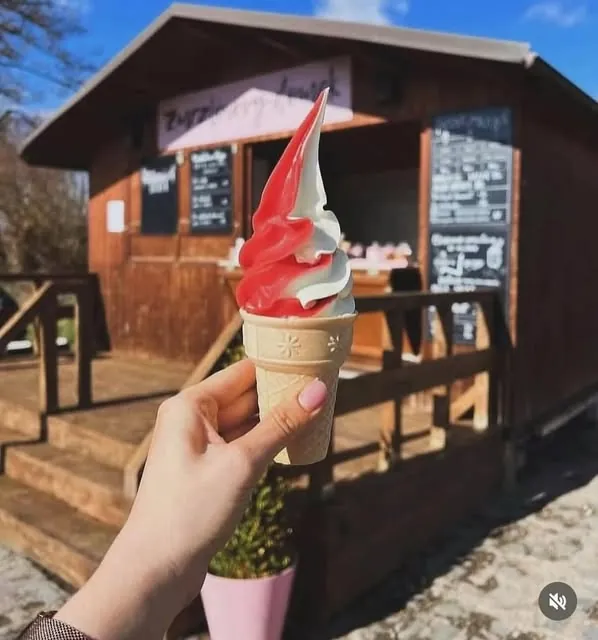
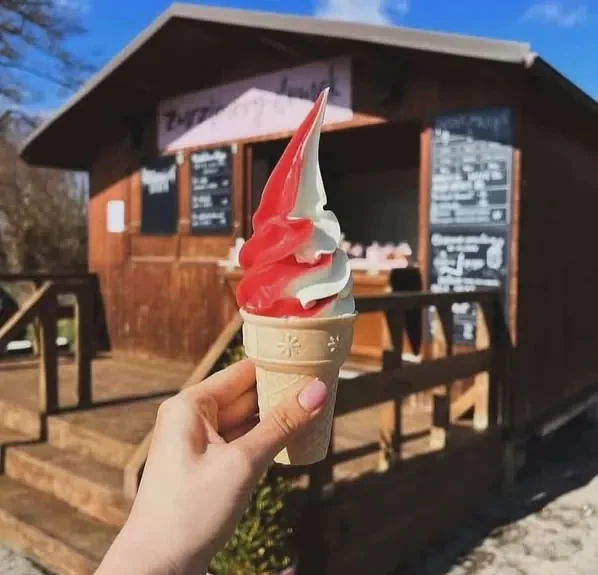
Předělaná sekce Co u nás ochutnáte
Čtyři stejné karty v mřížce 2x2 dávaly všemu stejnou váhu — točená
zmrzlina vypadala stejně důležitě jako kelímky. Teď má velkou kartu přes
celou šířku a zbytek je v řádku pod ní.

Fotka jde na celou šířku karty místo čtverečku 150 px vedle textu; v tom
z ní byla jen barevná skvrna. Cena a štítky sedí jako nálepka na fotce,
cena růžová psaná rukou, informace zelené — dřív to byly stejné pilulky,
takže se cena pletla s "nonstop".

Vyměněné fotky: frappé mělo v záběru hlavně růžové kytky a kelímek byl
nečitelný detail ruky. Lepší varianty přitom ležely nepoužité ve složce.
Z hlavní fotky oříznuta zapečená ikona ztlumení z Instagramu.

diff --git a/assets/style.css b/assets/style.css
@@ -218,15 +218,29 @@ h2 .hand { font-size: 1.16em; }
 .hlava__pozn { margin-top: 14px; opacity: .8; max-width: 34em; }
 .hlava--stred .hlava__pozn { margin-inline: auto; }
 
-.zbozi { display: grid; grid-template-columns: 1fr 1fr; gap: 20px; }
-.polozka { position: relative; display: grid; grid-template-columns: 150px 1fr; gap: 20px; align-items: center; background: #fff; border-radius: var(--r); padding: 16px; box-shadow: var(--stin); overflow: hidden; transition: transform .3s cubic-bezier(.34, 1.56, .64, 1); }
+/* Točená zmrzlina je hlavní důvod, proč sem lidi jedou, tak dostane velkou
+   kartu přes celou šířku a zbytek se vejde do řádku pod ní. Fotka jde na celou
+   šířku karty — v malém čtverečku vedle textu z ní byla jen barevná skvrna. */
+.zbozi { display: grid; grid-template-columns: repeat(3, 1fr); gap: clamp(14px, 1.6vw, 22px); }
+.polozka { position: relative; display: flex; flex-direction: column; background: #fff; border-radius: var(--r); box-shadow: var(--stin); overflow: hidden; transition: transform .3s cubic-bezier(.34, 1.56, .64, 1); }
+.polozka__foto { position: relative; margin: 0; }
+.polozka__foto img { width: 100%; aspect-ratio: 4 / 3; object-fit: cover; display: block; }
+.polozka__text { padding: 16px 20px 22px; }
+.polozka p { margin: 0; font-size: .95rem; opacity: .75; }
+
+.polozka--hlavni { grid-column: 1 / -1; flex-direction: row; }
+.polozka--hlavni .polozka__foto { flex: 0 0 42%; }
+.polozka--hlavni .polozka__foto img { height: 100%; aspect-ratio: auto; min-height: 270px; }
+.polozka--hlavni .polozka__text { align-self: center; padding: clamp(22px, 3vw, 44px); }
+.polozka--hlavni h3 { font-size: clamp(1.8rem, 3vw, 2.5rem); margin-bottom: 10px; }
+.polozka--hlavni p { font-size: 1.06rem; max-width: 30em; }
+
+/* Cena a nálepky sedí na fotce, ne pod textem — karty tím mají stejný rytmus.
+   Cena je růžová a psaná rukou, informace zelené, ať se nepletou dohromady. */
+.znacka { position: absolute; left: 12px; top: 12px; z-index: 2; display: inline-block; padding: .3em .95em; border-radius: 999px; background: var(--pistacie); color: var(--ink); font-weight: 900; font-size: .86rem; transform: rotate(-3deg); box-shadow: 0 8px 16px -8px rgba(40, 20, 30, .55); }
+.znacka--cena { background: var(--jahoda); font-weight: 700; font-size: 1.55rem; padding: .04em .6em .14em; }
 .polozka:hover { transform: translateY(-5px); }
 .polozka::after { content: ""; position: absolute; inset: 0; pointer-events: none; border-radius: inherit; background: radial-gradient(circle at var(--gx, 50%) var(--gy, 50%), rgba(255, 255, 255, .65), rgba(255, 255, 255, 0) 45%); opacity: var(--go, 0); transition: opacity .3s; }
-.polozka__foto img { width: 100%; aspect-ratio: 1; object-fit: cover; border-radius: 18px; }
-.polozka h3 { font-size: 1.3rem; margin-bottom: 6px; }
-.polozka p { margin: 0 0 10px; font-size: .95rem; opacity: .75; }
-.cena { display: inline-block; padding: .22em .85em; border-radius: 999px; background: var(--jahoda); font-weight: 900; font-size: .9rem; transform: rotate(-2deg); }
-.cena--mint { background: var(--pistacie); }
 
 /* ---------- 4. ceník ---------- */
 .cenik { display: grid; grid-template-columns: 1.04fr .96fr; gap: clamp(26px, 4vw, 60px); align-items: center; }
@@ -371,6 +385,7 @@ h2 .hand { font-size: 1.16em; }
 @media (max-width: 1080px) {
   .pata__mrizka { grid-template-columns: 1fr 1fr; }
   .zbozi, .mista, .citace__mrizka, .dotazy__mrizka { grid-template-columns: 1fr 1fr; }
+  .polozka--hlavni .polozka__foto { flex: 0 0 46%; }
   .recenze { grid-template-columns: 1fr; }
   .fakta { grid-template-columns: 1fr 1fr; }
   .fakta li { border-radius: var(--r) !important; }
@@ -404,7 +419,10 @@ h2 .hand { font-size: 1.16em; }
   body { font-size: 16px; }
   .pata__mrizka { grid-template-columns: 1fr; gap: 26px; }
   .zbozi, .mista, .citace__mrizka, .dotazy__mrizka, .fakta { grid-template-columns: 1fr; }
-  .polozka { grid-template-columns: 110px 1fr; gap: 14px; }
+  /* na mobilu i hlavní karta skládá fotku nad text */
+  .polozka--hlavni { flex-direction: column; }
+  .polozka--hlavni .polozka__foto { flex: none; }
+  .polozka--hlavni .polozka__foto img { aspect-ratio: 4 / 3; height: auto; min-height: 0; }
   .polaroidy { justify-content: flex-start; overflow-x: auto; scroll-snap-type: x mandatory; }
   .polaroidy figure { flex-basis: 176px; scroll-snap-align: center; }
   .kontakt__mapa iframe { height: 300px; }

diff --git a/index.html b/index.html
@@ -161,37 +161,50 @@
       </header>
 
       <div class="zbozi">
-        <article class="polozka" data-glare>
-          <div class="polozka__foto"><img src="assets/img/ig-dva-kornouty.webp" alt="Dva kornouty točené zmrzliny" width="535" height="535" loading="lazy"></div>
+        <article class="polozka polozka--hlavni" data-glare>
+          <figure class="polozka__foto">
+            <img src="assets/img/jahoda-vanilka.webp" alt="Jahodovo-vanilková točená zmrzlina před Zmrzlinovým domkem" width="598" height="575" loading="lazy">
+            <span class="znacka znacka--cena hand">od 35 Kč</span>
+          </figure>
           <div class="polozka__text">
             <h3>Točená zmrzlina</h3>
-            <p>Tři stroje, na každém dvě příchutě. V&nbsp;kornoutu, v&nbsp;misce, nebo jako mix.</p>
-            <span class="cena">od 35 Kč</span>
+            <p>Tři stroje, na každém dvě příchutě. V&nbsp;kornoutu, v&nbsp;misce, nebo jako mix. Jahoda s&nbsp;vanilkou je stálice, zbytek měníme skoro každý den.</p>
           </div>
         </article>
+
         <article class="polozka" data-glare>
-          <div class="polozka__foto"><img src="assets/img/tris.webp" alt="Červená ledová tříšť v kelímku" width="480" height="600" loading="lazy"></div>
+          <figure class="polozka__foto">
+            <img src="assets/img/tris.webp" alt="Červená ledová tříšť v kelímku" width="480" height="600" loading="lazy">
+            <span class="znacka">na horko</span>
+          </figure>
           <div class="polozka__text">
             <h3>Ledová tříšť</h3>
             <p>Když je venku třicet. Vychlazená, s&nbsp;brčkem, na cestu po cyklostezce.</p>
-            <span class="cena cena--mint">na horko</span>
           </div>
         </article>
+
         <article class="polozka" data-glare>
-          <div class="polozka__foto"><img src="assets/img/ig-frappe.webp" alt="Frappé se šlehačkou na stole" width="640" height="640" loading="lazy"></div>
+          <figure class="polozka__foto">
+            <img src="assets/img/frappe.webp" alt="Frappé se šlehačkou a zmrzlina v misce" width="640" height="640" loading="lazy">
+            <span class="znacka">k&nbsp;posezení</span>
+          </figure>
           <div class="polozka__text">
             <h3>Frappé a&nbsp;káva</h3>
             <p>Ledové frappé se šlehačkou nebo kafe na terase, než přijede přívoz.</p>
-            <span class="cena cena--mint">k&nbsp;posezení</span>
           </div>
         </article>
+
         <article class="polozka" data-glare>
-          <div class="polozka__foto"><img src="assets/img/ig-kelimek.webp" alt="Otevřený kelímek zmrzliny s víčkem" width="640" height="639" loading="lazy"></div>
+          <figure class="polozka__foto">
+            <img src="assets/img/kelimky.webp" alt="Kelímky zmrzliny s víčky" width="640" height="640" loading="lazy">
+            <span class="znacka">nonstop</span>
+          </figure>
           <div class="polozka__text">
             <h3>Kelímky s&nbsp;sebou</h3>
             <p>Zmrzlina s&nbsp;víčkem domů do mrazáku — u&nbsp;okénka i&nbsp;v&nbsp;automatech.</p>
-            <span class="cena cena--mint">nonstop</span>
           </div>
+        </article>
+      </div>
         </article>
       </div>
     </div>
